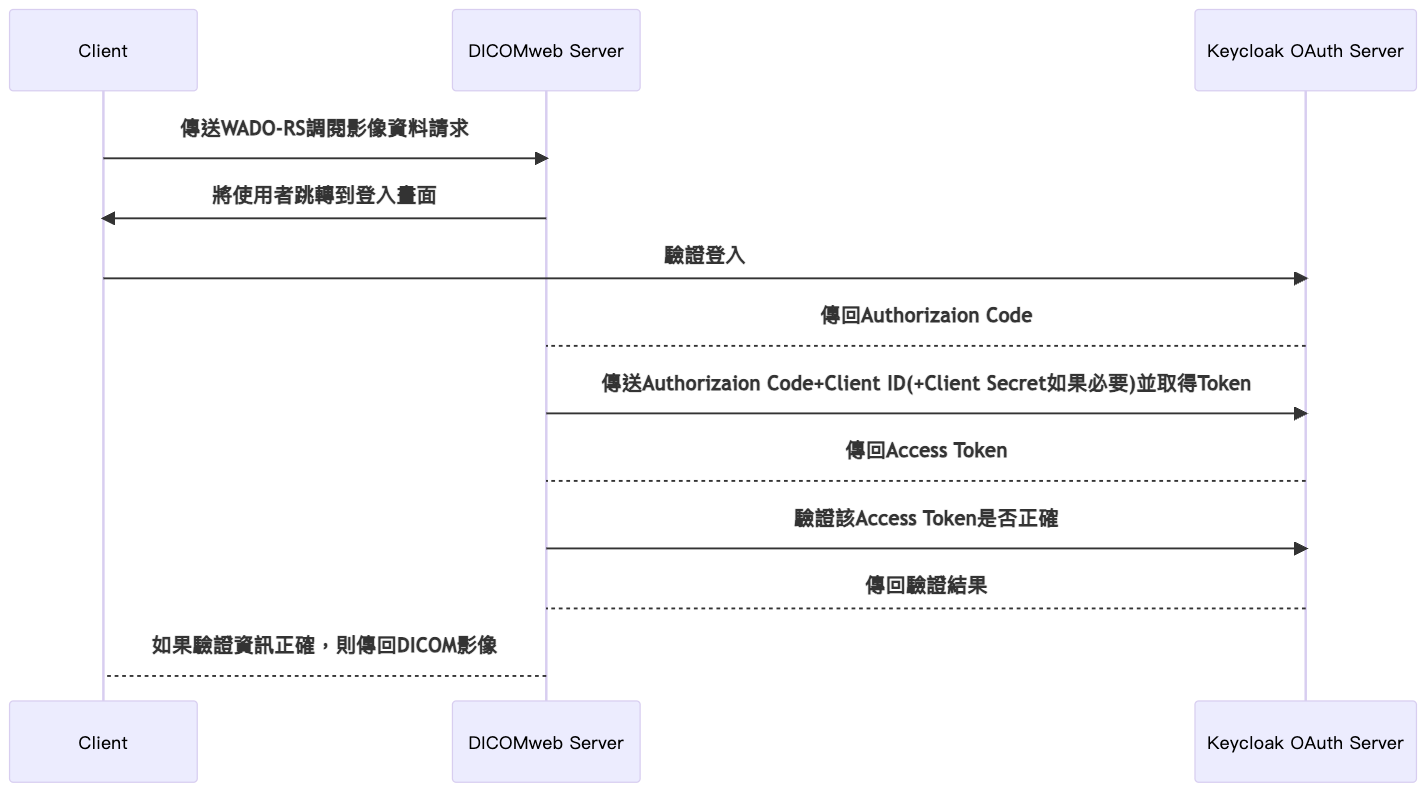
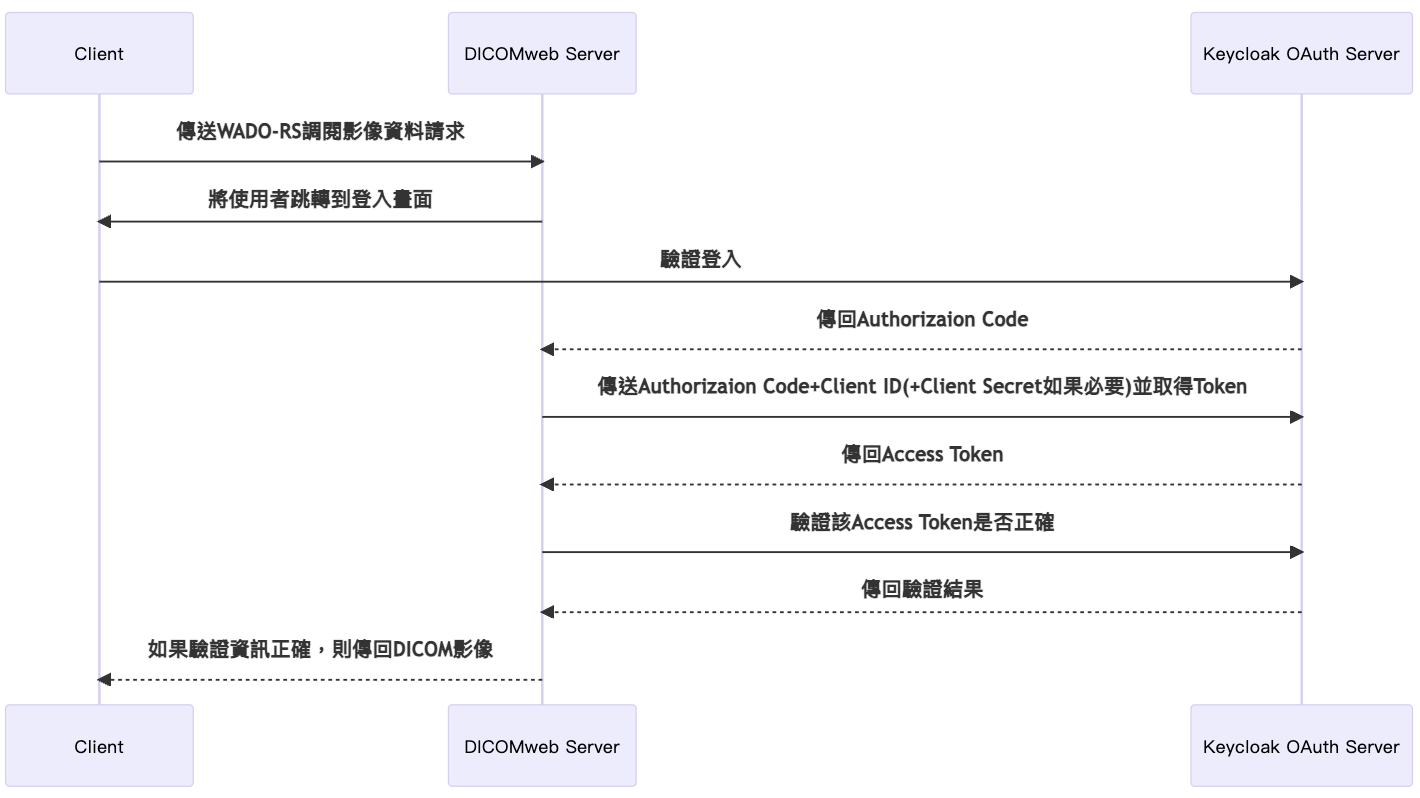
feat: 更新 ”規格與資源“ 資運
1.  Authorization Code image 更新
2. 新增Authorization Code list

diff --git a/src/Pages/Specification/SpecificationInform.js b/src/Pages/Specification/SpecificationInform.js
@@ -173,6 +173,9 @@ const List = [
         <h3 style={{ marginTop: '1rem', fontWeight: 'bold' }}>
           Authorization Code flow範例 - 以賽道4 - WADO-RS調閱DICOM影像為例
         </h3>
+        <ul>
+          <li>循序圖: grant type=authorization code 瀏覽器跳轉登入驗證的方式</li>
+        </ul>
         <img src={Authorization} width="100%"></img>
       </div>
     ),
